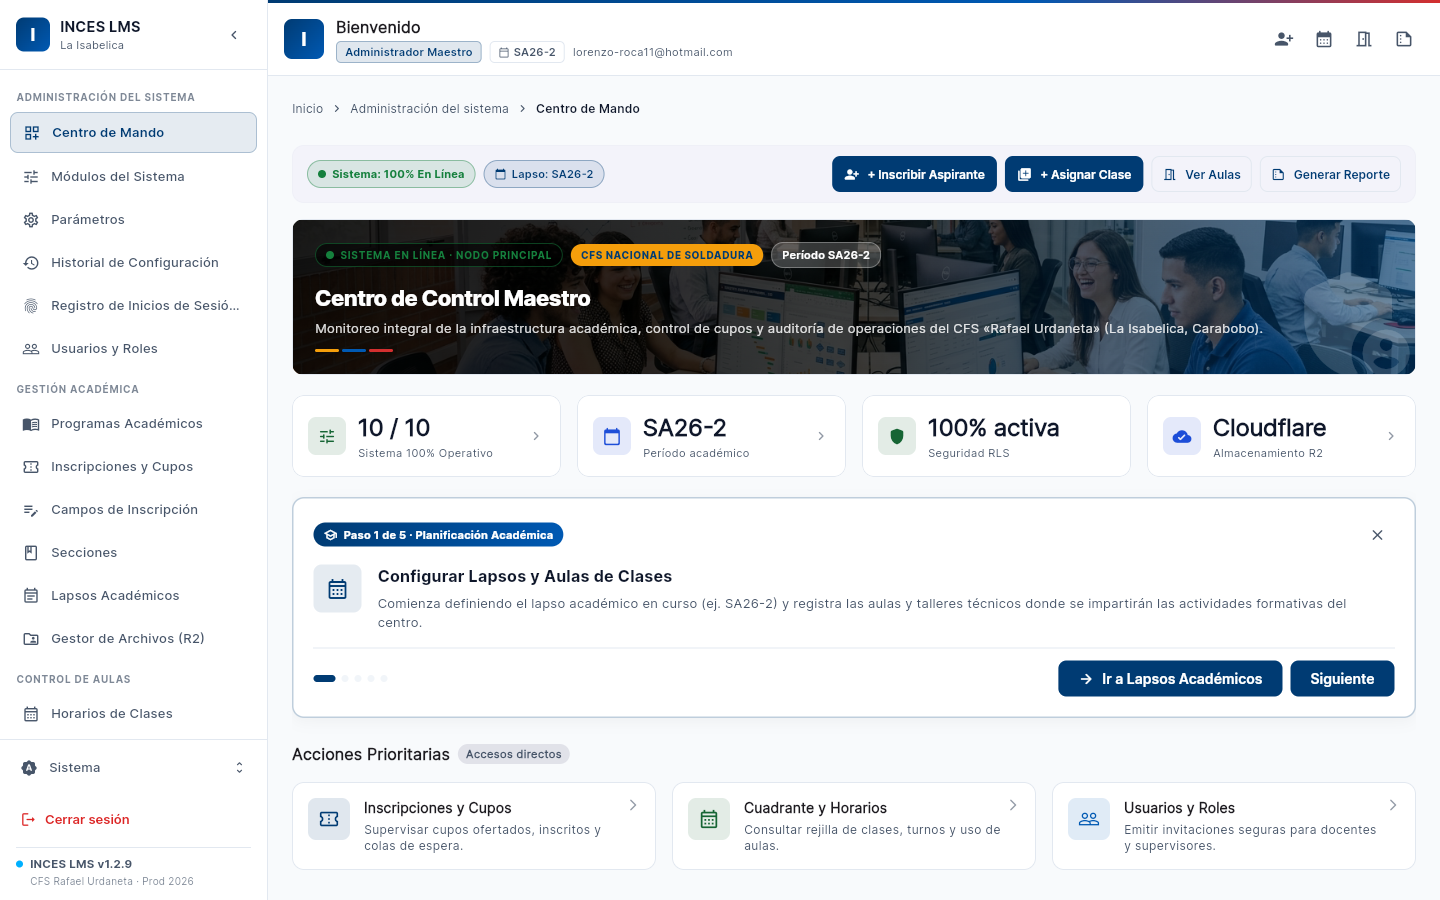
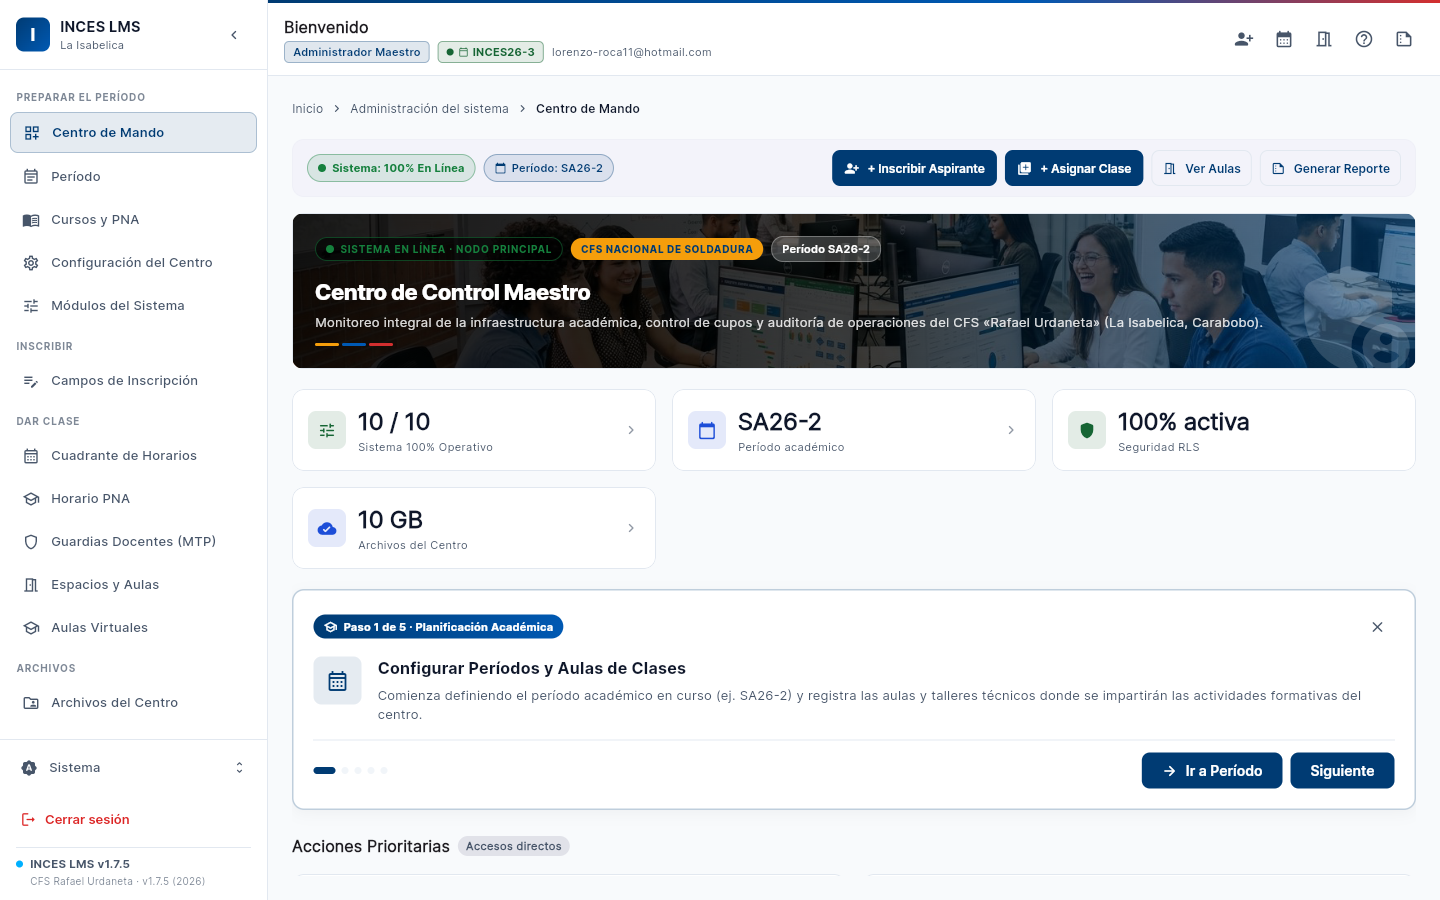
docs(evidencia): capturas honestas y el bloqueo de la API medido y documentado
La captura del cuadrante salía en esqueletos porque el spec disparaba a los 4 s;
ahora espera networkidle + 7 s. Medido con la red instrumentada: todas las
peticiones del cuadrante responden 200 y las 3 capturas de panel salen con datos.

Y el hallazgo de la sesión: https://inces-lms-api.onrender.com responde 503 con
x-render-routing: suspend — «This service has been suspended» — durante 96 s
seguidos, así que no es arranque en frío. Eso explica que el cuadrante se vea
vacío y con «Asignar clase» en gris: los datos que alimentan ese botón vienen de
la API. Queda como H1 en ESTADO_DEL_SISTEMA.md, con lo que sí sigue funcionando
(la web estática y las lecturas por PostgREST).

diff --git a/e2e/tests/captura_dashboards_roles.spec.ts b/e2e/tests/captura_dashboards_roles.spec.ts
@@ -64,7 +64,12 @@ test.describe.serial('Captura de Dashboards Multi-Rol (Admin, Docente, Estudiant
     await page.mouse.wheel(0, 300);
     await page.waitForTimeout(500);
     await login.app.pulsarReal('Cuadrante de Horarios', { tiempoLimiteMs: 15_000 });
-    await page.waitForTimeout(4000);
+    // **La captura tiene que esperar a que el cuadrante pinte.** Con 4 s salía
+    // en esqueletos y el administrador concluía —con razón— que el módulo no
+    // carga. Medido el 2026-10-30: las peticiones responden 200; lo que faltaba
+    // era tiempo para que el motor de Flutter pintara la rejilla.
+    await page.waitForLoadState('networkidle');
+    await page.waitForTimeout(7000);
     const rutaHorarios = path.join(DIR_DESTINO, '04_dashboard_admin_horarios.png');
     await page.screenshot({ path: rutaHorarios, fullPage: false });
     console.log(`[OK] Capturado: ${rutaHorarios}`);

diff --git a/ESTADO_DEL_SISTEMA.md b/ESTADO_DEL_SISTEMA.md
@@ -1,6 +1,49 @@
 # ESTADO DEL SISTEMA — INCES LMS
 
-## Fotografía operativa vigente — 2026-10-29 (noche) · v1.7.0 + correcciones · **sin desplegar**
+## Fotografía operativa vigente — 2026-10-30 (noche) · v1.7.5 desplegada · **API suspendida**
+
+> **BLOQUEO VIGENTE (H1).** `https://inces-lms-api.onrender.com` responde **503**
+> con cabecera `x-render-routing: suspend` y el cuerpo «This service has been
+> suspended». Medido el 2026-10-30 a las 01:34 UTC: **96 s consecutivos de 503**,
+> no es un arranque en frío. Render suspendió el servicio; hace falta que el
+> propietario lo reactive desde el panel de Render (horas del plan gratuito o
+> facturación). Mientras dure: la web estática funciona, pero **toda la
+> administración que pasa por la API** —cuadrante, PNA, periodos, secciones—
+> devuelve listas vacías y deja los botones deshabilitados. Las lecturas de
+> catálogo que van por PostgREST siguen vivas.
+>
+> Consecuencia medida: la captura del cuadrante mostraba la rejilla vacía y
+> «Asignar clase» en gris sin decir por qué. La app **sí** tiene el mensaje
+> («El servidor del INCES está iniciando sus servicios en la nube») pero el panel
+> no lo pinta de forma persistente: queda pendiente mostrarlo con un reintento.
+
+### Lo que sí quedó cerrado hoy (verificado)
+
+1. **F0.1 — el nombre del grupo ya no topa en 5.** Migración
+   `202610300001_ampliar_nombre_grupo`: `sections.name` pasa a `varchar(24)` con
+   restricción de no vacío. Las tres vistas que leían la columna
+   (`v_cuadrante_clases`, `v_exportacion_hacer`, `v_ocupacion_secciones`) se
+   guardan con `pg_get_viewdef` y se recrean idénticas dentro de la migración,
+   porque Postgres rechaza el cambio de tipo mientras dependan de ella (`0A000`).
+   Contrato, OpenAPI y las dos pantallas dicen 24; el regex admite guiones, así
+   que «SOLD-B» es un nombre válido. **Medido**: columna =
+   `character varying(24)`, restricción `sections_nombre_no_vacio` presente, las
+   tres vistas con sus permisos. Backend **729/729**.
+2. **F0.3 — cerrar período informa.** El servicio atrapaba cualquier fallo de la
+   API y reintentaba escribiendo directo a Supabase, tapando la causa real con
+   «No pudimos guardar la información». Ahora manda la API. **Medido**:
+   `PATCH /admin/periodos/{id}` con `{cerrado:true}` → 200, estado `CERRADO`.
+3. **Estado de los períodos**: `SA26-2` (nombre «INCES 26-3») quedó **cerrado**
+   durante una prueba de cierre, y **`INCES26-3` es el vigente** (200 confirmado).
+   Quedan dos períodos con nombres parecidos: el cerrado conviene borrarlo.
+4. **Capturas honestas.** `e2e/tests/captura_dashboards_roles.spec.ts` esperaba
+   4 s y fotografiaba el cuadrante en esqueletos; ahora espera `networkidle` + 7 s.
+   Las imágenes de `docs/assets/dashboards/` están regeneradas contra producción.
+5. **Plan de consolidación escrito**: `docs/PLAN_CONSOLIDACION_LMS_2026-10-30.md`
+   — qué existe de verdad en la base, qué falta, fases F0–F7 con criterio de
+   aceptación, cómo se verifica cada una y las siete decisiones del dueño.
+
+## Fotografía anterior — 2026-10-29 (noche) · v1.7.0 + correcciones
 
 > Trabajo de la sesión de la noche. **Nada de esto está en producción todavía**: el
 > frente desplegado (`inces-lms.pages.dev`) sigue siendo el del mediodía, y como se
